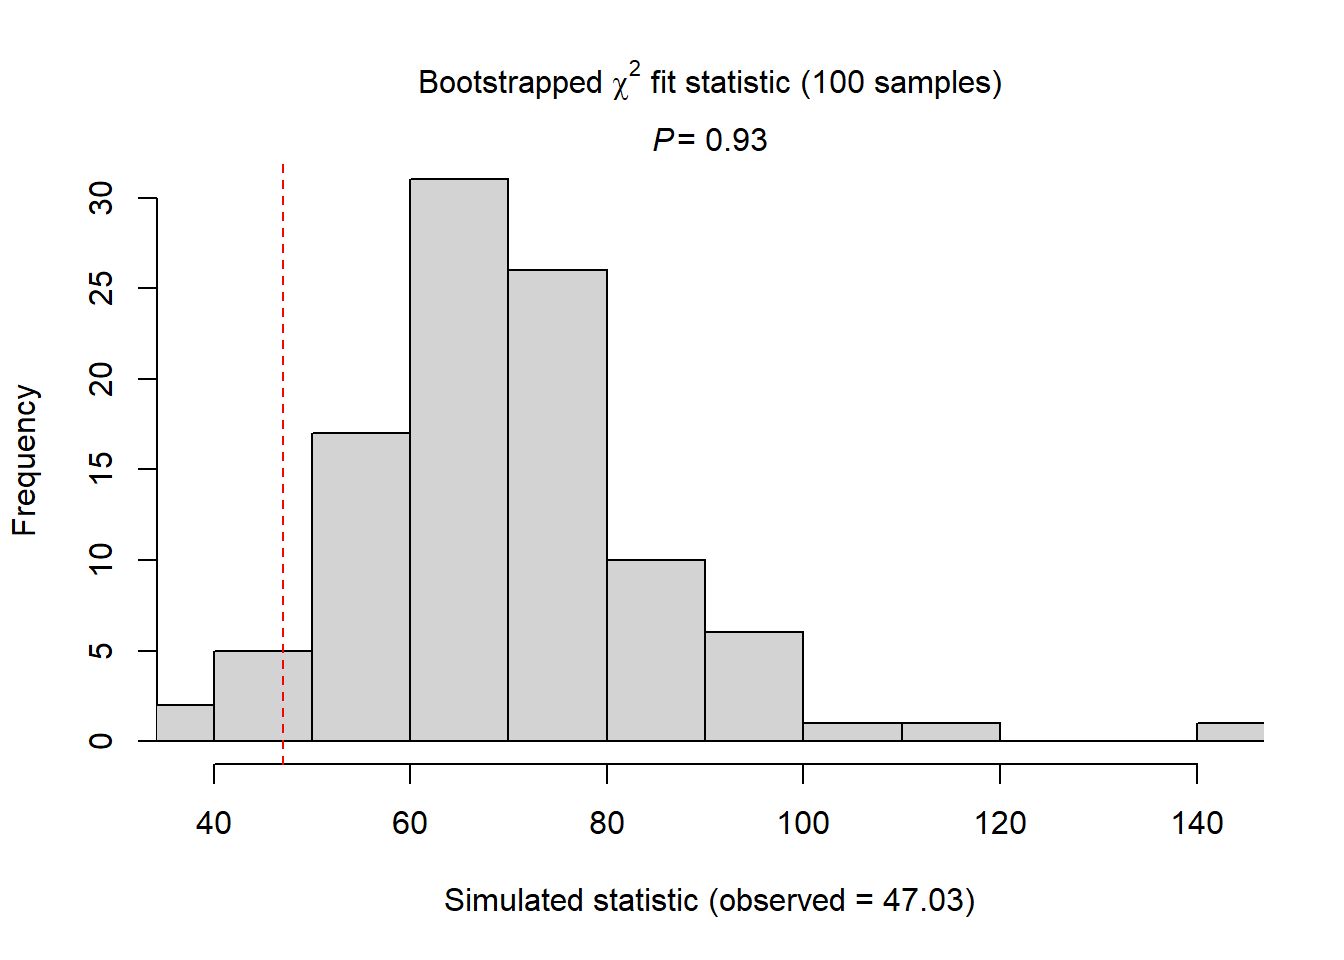
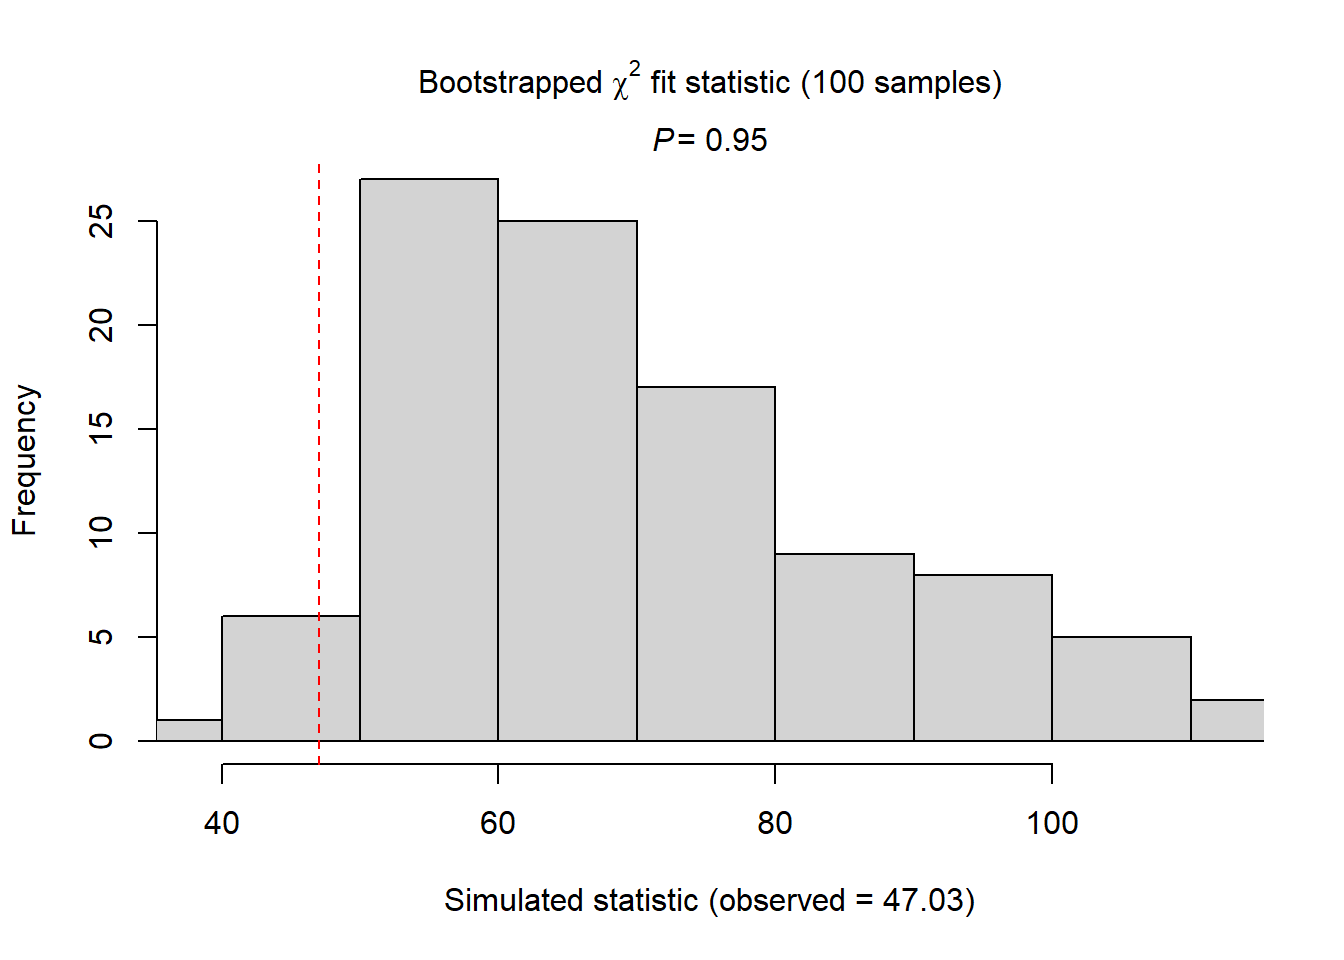
Dos

diff --git a/docs/Clase2.html b/docs/Clase2.html
@@ -8,7 +8,7 @@
 
 <meta name="author" content="David Murillo">
 
-<title>Clase 2: Modelar Abundancia N-Mixture</title>
+<title>Clase 2: Modelos N-Mixture para estimar abundancia</title>
 <style>
 code{white-space: pre-wrap;}
 span.smallcaps{font-variant: small-caps;}
@@ -81,7 +81,7 @@ pre > code.sourceCode > span > a:first-child::before { text-decoration: underlin
 
 <header id="title-block-header" class="quarto-title-block default">
 <div class="quarto-title">
-<h1 class="title">Clase 2: Modelar Abundancia N-Mixture</h1>
+<h1 class="title">Clase 2: Modelos N-Mixture para estimar abundancia</h1>
 </div>
 
 
@@ -104,9 +104,21 @@ pre > code.sourceCode > span > a:first-child::before { text-decoration: underlin
 </header>
 
 
-<p>Unmarked se destaca como uno de los paquetes más populares para ajustar modelos de abundancia que incorporan variables de detección. A diferencia de Distance, este paquete se caracteriza por su mayor complejidad y una versatilidad notable en la capacidad de ajustar modelos más detallados. Requiere un nivel de conocimiento en R al menos intermedio para aprovechar plenamente su potencial, debido a su complejidad y las múltiples opciones de modelado que ofrece.</p>
-<p>En esta clase se obordara como utilizar Unmarked para modelar abundancia de especies para lo cuales se tomaran datos por medio de conteo por puntos. En la clase se explicara desde cero el uso de este paquete y paso a paso como ajustar, seleccionar, validar, interpretar y graficar el modelo, incluso la presancion de los datos para publicaciones cientificas.</p>
-<p>En esta clase, exploraremos el uso de Unmarked para modelar la abundancia de especies a partir de datos recopilados mediante conteo por puntos. Desde los fundamentos, explicaremos paso a paso cómo utilizar este paquete, cubriendo el proceso completo: desde el ajuste inicial del modelo hasta la selección, validación e interpretación de los resultados. También abordaremos la presentación de los datos para su inclusión en publicaciones científicas, asegurando un entendimiento completo y la capacidad de aplicar estos modelos de manera efectiva en contextos de investigación y divulgación científica.</p>
+<section id="el-paquete-de-r-unmarked" class="level2">
+<h2 class="anchored" data-anchor-id="el-paquete-de-r-unmarked"><strong>EL Paquete de R <code>unmarked</code></strong></h2>
+<p>El paquete de R unmarked (<a href="https://doi.org/10.18637/jss.v043.i10">Fiske y Chandler, 2011</a>) proporciona una plataforma integral para el análisis de muchos de los modelos jerárquicos (HMs) que cubrimos en este curso. Implementa estimaciones basadas en verosimilitud marginal y ofrece funciones de soporte para la organización de datos, resúmenes y análisis gráficos. El paquete fue desarrollado originalmente por Ian Fiske como estudiante de posgrado en la Universidad Estatal de Carolina del Norte, y fue asumido en gran medida por Richard Chandler alrededor del año 2011.</p>
+<p>El paquete unmarked ofrece un marco unificado para la manipulación de datos, exploración de datos, ajuste de modelos (mediante máxima verosimilitud), selección de modelos, promediado de modelos, evaluación del ajuste del modelo (Gof, por sus siglas en inglés), predicción, e implementa ideas como bootstrapping, predicción, estimación empírica Bayesiana y otros procedimientos de inferencia y análisis. Los modelos jerárquicos principales disponibles en unmarked son los siguientes:</p>
+<ul>
+<li><p>Modelo de ocupación por sitios de una sola temporada (“estático”) (MacKenzie et al., 2002; Tyre et al., 2003)</p></li>
+<li><p>Modelo estático de Royle-Nichols (Royle y Nichols, 2003)</p></li>
+<li><p>Modelo estático de ocupación con falsos positivos (Royle y Link, 2006; Miller et al., 2011)</p></li>
+<li><p>Modelos estáticos de ocupación penalizada (Hutchinson et al., 2015)</p></li>
+<li><p>Modelo estático binomial de mezcla N (Royle, 2004b)</p></li>
+<li><p>Modelo estático multinomial de mezcla N (Royle, 2004a; Dorazio et al., 2005; Langtimm et al., 2011)</p></li>
+<li><p>Modelo jerárquico estático de muestreo por distancias (Royle et al., 2004)</p></li>
+<li><p>Versiones de “población abierta” para muchos de los anteriores: 1) Modelo dinámico de ocupación (MacKenzie et al., 2003), 2) Modelo de mezcla multinomial con emigración temporal (Chandler et al., 2011), 3) Muestreo por distancias con emigración temporal, modelo dinámico de <em>N</em>-Mixture (Dail y Madsen, 2011), muestreo por distancias dinámico (Sollmann et al., 2015).</p></li>
+</ul>
+<p>Con frecuencia, los modeladores jerárquicos en formación tienen dificultades para determinar qué tipo de modelo deberían utilizar para abordar un problema específico. Una clave dicotómica simple puede ayudar a guiar al usuario hacia la funcionalidad adecuada de unmarked (Figura 2.1).</p>
 <div class="tabset-margin-container"></div><div class="panel-tabset">
 <ul class="nav nav-tabs" role="tablist"><li class="nav-item" role="presentation"><a class="nav-link active" id="tabset-1-1-tab" data-bs-toggle="tab" data-bs-target="#tabset-1-1" role="tab" aria-controls="tabset-1-1" aria-selected="true" href="">Cargar base de datos</a></li><li class="nav-item" role="presentation"><a class="nav-link" id="tabset-1-2-tab" data-bs-toggle="tab" data-bs-target="#tabset-1-2" role="tab" aria-controls="tabset-1-2" aria-selected="false" href="">Formatear base de datos a formato unmarked</a></li><li class="nav-item" role="presentation"><a class="nav-link" id="tabset-1-3-tab" data-bs-toggle="tab" data-bs-target="#tabset-1-3" role="tab" aria-controls="tabset-1-3" aria-selected="false" href="">Crear variables de detectabilidad</a></li><li class="nav-item" role="presentation"><a class="nav-link" id="tabset-1-4-tab" data-bs-toggle="tab" data-bs-target="#tabset-1-4" role="tab" aria-controls="tabset-1-4" aria-selected="false" href="">Crear variables de habitat (covariables)</a></li><li class="nav-item" role="presentation"><a class="nav-link" id="tabset-1-5-tab" data-bs-toggle="tab" data-bs-target="#tabset-1-5" role="tab" aria-controls="tabset-1-5" aria-selected="false" href="">Crear tabla unmarked</a></li><li class="nav-item" role="presentation"><a class="nav-link" id="tabset-1-6-tab" data-bs-toggle="tab" data-bs-target="#tabset-1-6" role="tab" aria-controls="tabset-1-6" aria-selected="false" href="">Ajustar modelo de deteccion</a></li><li class="nav-item" role="presentation"><a class="nav-link" id="tabset-1-7-tab" data-bs-toggle="tab" data-bs-target="#tabset-1-7" role="tab" aria-controls="tabset-1-7" aria-selected="false" href="">Seleccion de modelo de deteccion</a></li><li class="nav-item" role="presentation"><a class="nav-link" id="tabset-1-8-tab" data-bs-toggle="tab" data-bs-target="#tabset-1-8" role="tab" aria-controls="tabset-1-8" aria-selected="false" href="">Ajustar modelo de Abundancia</a></li><li class="nav-item" role="presentation"><a class="nav-link" id="tabset-1-9-tab" data-bs-toggle="tab" data-bs-target="#tabset-1-9" role="tab" aria-controls="tabset-1-9" aria-selected="false" href="">Seleccion de modelo de abundancia</a></li><li class="nav-item" role="presentation"><a class="nav-link" id="tabset-1-10-tab" data-bs-toggle="tab" data-bs-target="#tabset-1-10" role="tab" aria-controls="tabset-1-10" aria-selected="false" href="">Resumen de los resultados</a></li><li class="nav-item" role="presentation"><a class="nav-link" id="tabset-1-11-tab" data-bs-toggle="tab" data-bs-target="#tabset-1-11" role="tab" aria-controls="tabset-1-11" aria-selected="false" href="">Bondad de ajuste</a></li><li class="nav-item" role="presentation"><a class="nav-link" id="tabset-1-12-tab" data-bs-toggle="tab" data-bs-target="#tabset-1-12" role="tab" aria-controls="tabset-1-12" aria-selected="false" href="">Prepar data para graficar</a></li><li class="nav-item" role="presentation"><a class="nav-link" id="tabset-1-13-tab" data-bs-toggle="tab" data-bs-target="#tabset-1-13" role="tab" aria-controls="tabset-1-13" aria-selected="false" href="">Graficar modelo</a></li></ul>
 <div class="tab-content">
@@ -434,15 +446,15 @@ parboot(object = ModelAbun3, statistic = fitstats, nsim = 100, report = 1)
 
 Parametric Bootstrap Statistics:
                t0 mean(t0 - t_B) StdDev(t0 - t_B) Pr(t_B &gt; t0)
-SSE          30.5        -11.268            14.62        0.812
-Chisq        47.0        -19.138            16.81        0.911
-freemanTukey 28.2          0.999             3.76        0.366
+SSE          30.5        -14.380            15.48        0.861
+Chisq        47.0        -23.967            21.54        0.921
+freemanTukey 28.2          0.158             3.72        0.475
 
 t_B quantiles:
              0% 2.5% 25% 50% 75% 97.5% 100%
-SSE          19   24  32  39  49    78  100
-Chisq        37   46  55  63  74   100  138
-freemanTukey 19   21  24  27  30    35   39
+SSE          20   22  35  43  51    76  122
+Chisq        37   43  58  67  79   121  197
+freemanTukey 20   21  26  28  30    36   38
 
 t0 = Original statistic computed from data
 t_B = Vector of bootstrap samples</code></pre>
@@ -496,6 +508,7 @@ t_B = Vector of bootstrap samples</code></pre>
 <figcaption>HN Biology Investigation Academy</figcaption>
 </figure>
 </div>
+</section>
 
 </main>
 <!-- /main column -->

diff --git a/docs/index.html b/docs/index.html
@@ -69,7 +69,7 @@ ul.task-list li input[type="checkbox"] {
 <p>El propósito principal de este curso es servir como una guía que permita a los estudiantes desarrollar, interpretar e implementar técnicas de análisis de datos centradas en la Ecología de Poblaciones.</p>
 <p><a href="Asiganciones.html">Asignaciones</a></p>
 <p><a href="Clase1.html">Clase 1: Introducción a Modelos Jerárquicos</a></p>
-<p><a href="Clase2.html">Clase 2: Modelar abundancia: N-Mixture models</a></p>
+<p><a href="Clase2.html">Clase 2: Modelos N-Mixture para estimar abundancia</a></p>
 <p><a href="Clase3.html">Clase 3: Modelar abundancia con muestreo de distancia jerárquico</a></p>
 <p><a href="Clase4.html">Clase 4: Modelar densidad con muestreo de distancia jerárquico</a></p>
 <p><a href="Clase5.html">Clase 5: Modelar ocupación de especies en poblaciones cerradas</a></p>
